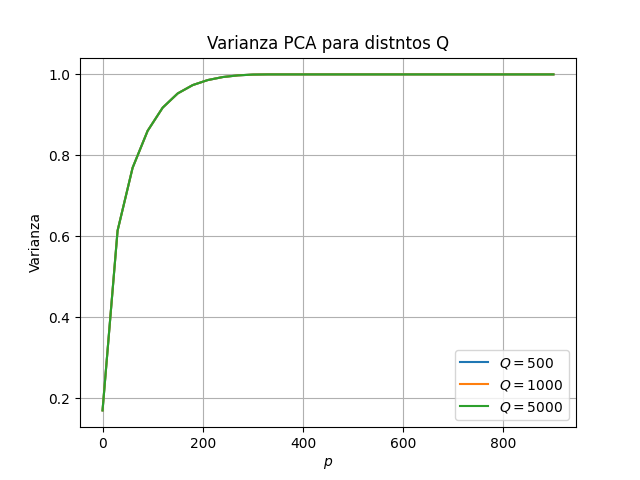
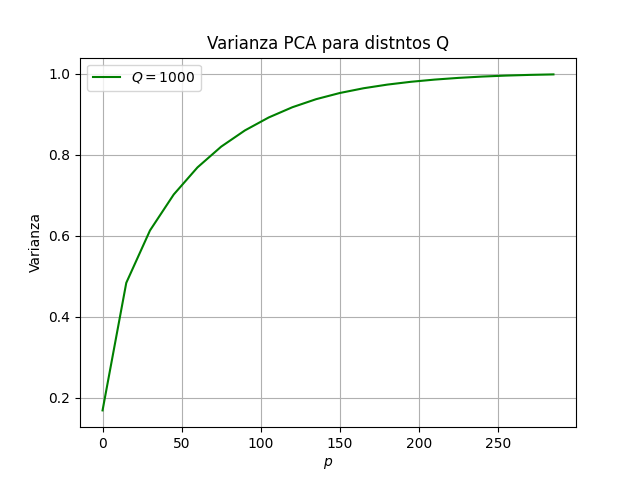
Experimento varianza

diff --git a/tp2/experimentos.py b/tp2/experimentos.py
@@ -71,31 +71,22 @@ def plot_performance_Q_k():
 def plot_varianza_p():
     df = ds.leer_data_frame()
 
-    Q_sample  = [500,1000,5000]
-    p_sample  = [i for i in range(0,901,30)]
+    p_sample  = [i for i in range(0,300,15)]
     varianzas = []
 
-    for Q in Q_sample:
-        X = ds.matriz_tokens(Q, df)
+    X = ds.matriz_tokens(Q=1000, dataFrame=df)
+    train_set = df[df["split"] == "train"]
+    X_train = X[train_set.index]  
 
-        train_set = df[df["split"] == "train"]
-        X_train = X[train_set.index]  
-        
-        print(Q)
-        varianzas_p = []
-        for p in p_sample:
-            print(p)
-            var, V = ds.pca(X_train,'T')
-            varianzas_p.append(var[p])
+    for p in p_sample:
+        print(p)
+        var, V = ds.pca(X_train,'T')
+        varianzas.append(var[p])
 
-        varianzas.append(varianzas_p)
-
-    for q in range(len(Q_sample)):
-        plt.plot(p_sample, varianzas[q], label=f'$Q = {{{Q_sample[q]}}}$')
+    plt.plot(p_sample, varianzas, label=f'$Q = 1000$', color='green')
 
     plt.ylabel('Varianza')
     plt.xlabel('$p$')
-    # plt.xscale("log")
     plt.legend()
     plt.grid(True)
     plt.title("Varianza PCA para distntos Q")
@@ -144,5 +135,5 @@ def experimentar_epsilon():
 
 if __name__ == "__main__":
 #    experimentar_epsilon()
-    plot_performance_Q_k()
+    # plot_performance_Q_k()
     plot_varianza_p()
